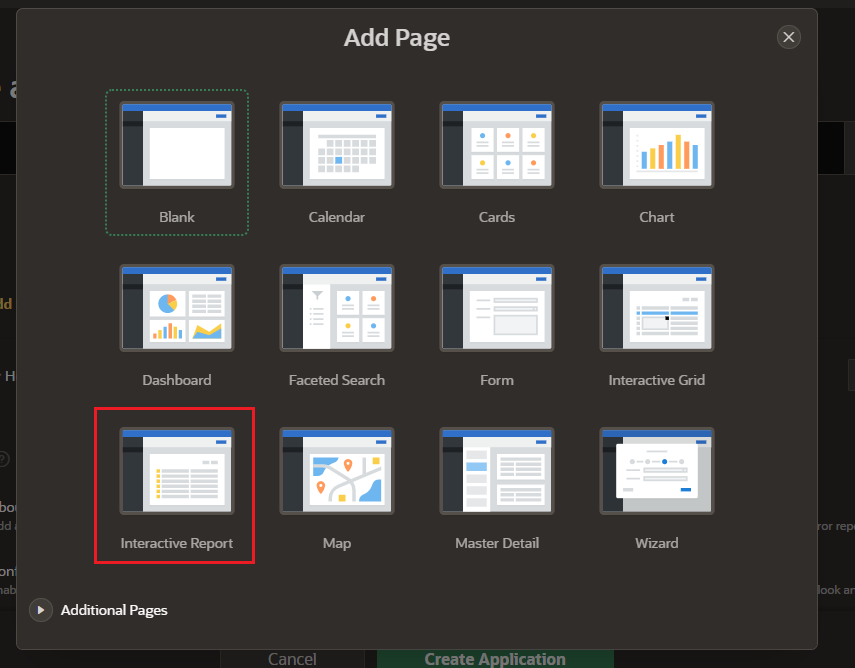
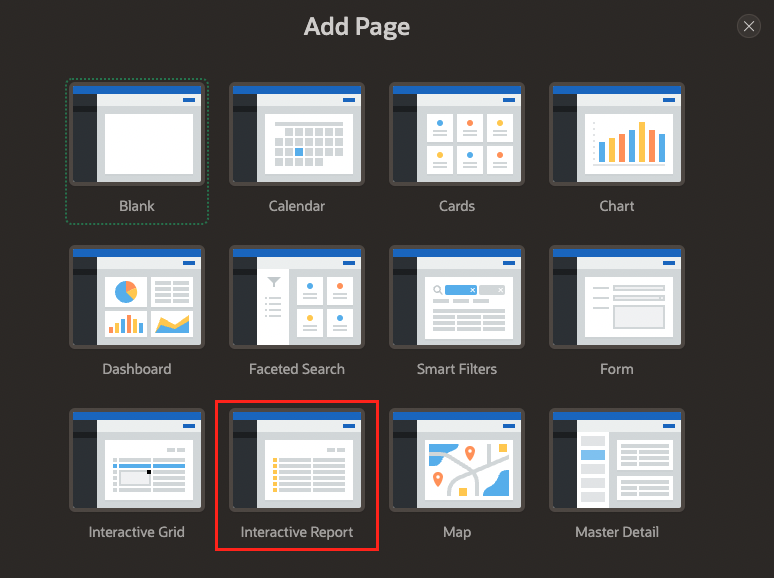
ID#2161 Add minor changes to mongoAPI AJD content (#22)
* Import MongoDB content mongoAPI capability

* Add changes after APEX new version

* Add minor changes in the mongoAPI content

diff --git a/ajd-soda/mongo-api/mongo-api.md b/ajd-soda/mongo-api/mongo-api.md
@@ -73,20 +73,20 @@ In this lab, you will:
 
     ![cat mongoapi-app](./images/task1/cat-mongoapi-app.png)
 
-3. **Verify** all connection **variables are correct**. This time we are using Oracle variables that we have used in previous labs and those will be use for connection variables that we will use. Following this method, you don't need to edit them.
+3. For the Oracle Autonomous JSON database connection: We are using **demo** user and the **password** that we have recommended during the workshop **DBlearnPTS#22_**. The name of the Oracle Databases is **demo** too. And the Oracle schema **SimpleCollection**. We will **run** the following export commands:
 
-
-    - For the Oracle Autonomous JSON database connection: We are using **demo** user and the **password** that we have recommended during the workshop **DBlearnPTS#22_**. The name of the Oracle Databases is **demo** too. And the Oracle schema **SimpleCollection**.
-
-    > Note: If you have change the following variables to a different value, please run this commands providing the variable that you have changed. **Remember, we are using the Oracle connections under the MongoDB variables for nor editing the parameters. If you prefer, you can eddit them.  Following this method, it is cleaner for the application point of view.**
-    >
     ````
+    <copy>
     export MONGO_USER="demo"
     export MONGO_PASSWORD="DBlearnPTS#22_"
     export MONGO_CLUSTER="Cluster0"
     export MONGO_DB="demo"
     export MONGO_COLLECTION="SimpleCollection"
+    </copy>
     ````
+
+    > Note: If you have change the following variables to a different value, please run this commands providing the variable that you have changed. **Remember, we are using the Oracle connections under the MongoDB variables for nor editing the parameters. If you prefer, you can eddit them.  Following this method, it is cleaner for the application point of view.**
+    >
 
     The only variable that we need to define, if you haven't changed any variable from the recomended, is **ATP_URL**. A new URL that our AJD has created after adding our IPs in Task 1 of this Lab.
 
@@ -119,13 +119,14 @@ In this lab, you will:
     mongodb://[user:password@]<ATP_URL_including_tenancy_id.oraclecloudapp.com>:27017[user]authMechanism=PLAIN&authSource=$external&ssl=true&retryWrites=false&loadBalanced=true
     ````
 
-    We need to copy the URL string after `@]` and until `:27017`. 
+    We need to copy the URL string after your _`[user:password@]`_ and until _`:27017`_, including _`oraclecloudapps.com`_. It should be something like: _`AAA8EFD9AA64AA4-AJDEV.adb.eu-frankfurt-1.oraclecloudapps.com`_
+
 
 7. We will **export** the URL using the following command:
 
     ````
     <copy>
-    export ATP_URL="[URL_AFTER_@_AND_]_UNTIL_SEMICOLON_27017]" 
+    export ATP_URL="URL_FROM_ABOVE" 
     </copy>
     ````
 
@@ -147,7 +148,7 @@ In this lab, you will:
 
      ![Microservice Company MongoAPI capability](./images/task1/microservice-mongoapi.png)
     
-    > This micro-service has 1 URL. We already had used previosly the Oracle one and the Mongo one. In this case we are using a new one / oracle/mongo. Here you have the others URLS too:
+    > This micro-service has 1 URL. We already had used previosly the Oracle one and the Mongo one. In this case we are using a new one /oracle/mongo. Here you have the others URLS too:
     >
         - http://[DEVM public-ip address]:5000/oracle/ -> for Oracle Autonomous Database
         - http://[DEVM public-ip address]:5000/mongo/ -> for MongoDB
@@ -223,9 +224,7 @@ In this lab, you will:
     ssh -i <private-key-file-name>.key opc@<Public_IP>
     </copy>
     ````
-
     ![ssh Connection](./images/task3/ssh.png)
-
 
 2. We will **export** the **paths** and **Access** to python-simple-project folder using the following commands:
 
@@ -243,34 +242,36 @@ In this lab, you will:
 
     > Note: We have run these commands before, if you are not desconnected from cloud shell, you don't have to run them again.
 
-2. Lets have a look at **insert-mongoapi-app.py**. In this file, we have the Python application code. Run the following command to see the code:
+3. Lets have a look at **insert-mongoapi-app.py**. In this file, we have the Python application code. Run the following command to see the code:
 
     ````
     <copy>
     cat insert-mongoapi-app.py
     </copy>
     ````
-
+    
     ![cat insert-mongoapi-app](./images/task3/cat-insert-mongoapi-app.png)
 
-3. **Verify** all connection **variables are correct**. This time we are using Oracle variables that we have used in previous labs and those will be use for connection variables that we will use. Following this method, you don't need to edit them.
+4. For the Oracle Autonomous JSON database connection: We are using **demo** user and the **password** that we have recommended during the workshop **DBlearnPTS#22_**. The name of the Oracle Databases is **demo** too. And the Oracle schema **SimpleCollection**. We will **run** the following export commands:
 
-    - For the Oracle Autonomous JSON database connection: We are using **demo** user and the **password** that we have recommended during the workshop **DBlearnPTS#22_**. The name of the Oracle Databases is **demo** too. And the new Oracle JSON Collection **MongoCollection**.
-
-    > Note: If you have change the following variables to a different value, please run this commands providing the variable that you have changed. **Remember, we are using the Oracle connections under the MongoDB variables for nor editing the parameters. If you prefer, you can eddit them.  Following this method, it is cleaner for the application point of view.**
-    >
     ````
+    <copy>
     export MONGO_USER="demo"
     export MONGO_PASSWORD="DBlearnPTS#22_"
     export MONGO_CLUSTER="Cluster0"
     export MONGO_DB="demo"
-    export MONGO_COLLECTION="MongoCollection"
-    export ATP_URL="[URL_AFTER_@_AND_]_UNTIL_SEMICOLON_27017]" 
+    export MONGO_COLLECTION="SimpleCollection"
+    export ATP_URL="URL_FROM_ABOVE" 
+    </copy>
     ````
+
+    > Note: If you have change the following variables to a different value, please run this commands providing the variable that you have changed. **Remember, we are using the Oracle connections under the MongoDB variables for nor editing the parameters. If you prefer, you can eddit them.  Following this method, it is cleaner for the application point of view.**
+    >
 
     > Note: Remember that we have exported **ATP_URL** on Task number 2 of this lab, so we don't need to export it again.
 
-4. **After checking if all variables are correct**. **Run** mongoapi-app application using the following command:
+
+5. **After checking if all variables are correct**. **Run** mongoapi-app application using the following command:
 
     ````
     <copy>
@@ -285,7 +286,7 @@ In this lab, you will:
 
     ![insert-mongoapi-app Execution](./images/task3/insert-mongoapi-app-execution.png)
 
-5. Lets see what **insert-mongoapi-app.py is doing**, use the following command:
+6. Lets see what **insert-mongoapi-app.py is doing**, use the following command:
 
     ````
     <copy>
@@ -299,7 +300,7 @@ In this lab, you will:
 
     **Your micro-service nsert-mongoapi-app.py is being executed** so we can start inserting the documents.
 
-6. **Copy** the following commands to perform **POST request with CURL client**. Make sure you press **Enter** after each one. First and Second POST:
+7. **Copy** the following commands to perform **POST request with CURL client**. Make sure you press **Enter** after each one. First and Second POST:
 
     ````
     <copy>
@@ -334,7 +335,7 @@ In this lab, you will:
 
     ![POST company nine and ten curl](./images/task3/curl-company-nine-ten.png)
 
-7. Use the **web browser** on your laptop to navigate to your micro-service to list JSON documents inserted into Oracle Autonomous Database using MongoAPI capability.
+8. Use the **web browser** on your laptop to navigate to your micro-service to list JSON documents inserted into Oracle Autonomous Database using MongoAPI capability.
 
     http://[DEVM public-ip address]:5000/oracle/mongo/
 
@@ -345,11 +346,11 @@ In this lab, you will:
         - http://[DEVM public-ip address]:5000/oracle/mongo/ -> for Oracle Autonomous Database using MongoAPI
 
 
-8. We can check that the **Two New Companies** (Nice and Ten) are being stored on our **Autonomous JSON Database**, on **MongoCollection** that we created in Task 3 of this Lab. Go to **Database Actions** again and click green **Play** button.
+9. We can check that the **Two New Companies** (Nice and Ten) are being stored on our **Autonomous JSON Database**, on **MongoCollection** that we created in Task 3 of this Lab. Go to **Database Actions** again and click green **Play** button.
 
     ![MongoDB Companies Added Database Actions](./images/task3/database-actions-nine-ten.png)
 
-9. Go to **cloud shell terminal.** We will **stop insert-mongoapi-app.py** running the following command. 
+10. Go to **cloud shell terminal.** We will **stop insert-mongoapi-app.py** running the following command. 
 
     ````
     <copy>

diff --git a/ajd-soda/multi-cloud-mongoapi/multi-cloud-mongoapi.md b/ajd-soda/multi-cloud-mongoapi/multi-cloud-mongoapi.md
@@ -92,13 +92,7 @@ One of the objectives of this workshop is to show the integration of Oracle Auto
     
     > Note: Save this string in your notes. Replace `[password]` (DBlearnPTS#22_), `[cluster_name]` (Cluster0), `[sub_domain_name]` and `[dbname]` (SimpleDatabase) with your values.
 
-7. Click the cluster name **Cluster0**. Under **Collections**, use **Load a Sample Dataset wizard** to generate some JSON documents for different use cases in your MongoDB database. **Navigate** these sample datasets and familiarize yourself with JSON documents, if this is your first experience.
-
-    ![MongoDB Collections](./images/task1/mongodb-collections.png)
-    ![MongoDB Load Sample](./images/task1/mongodb-load-sample.png)
-    ![MongoDB Load Sample Two](./images/task1/mongodb-load-sample-two.png)
-
-8. Click **Create Database**, and name it **SimpleDatabase**, and the collection **SimpleCollection**. This will be used for our Python application development in the next lab.
+7. Click the cluster name **Cluster0**. Under **Collections**, click **Create Database**, and name it **SimpleDatabase**, and the collection **SimpleCollection**. This will be used for our Python application development in the next lab.
 
     - Database Name: **SimpleDatabase**
     ```
@@ -112,7 +106,7 @@ One of the objectives of this workshop is to show the integration of Oracle Auto
     ![MongoDB Create Database](./images/task1/mongodb-create-database.png)
     ![MongoDB Simple DB](./images/task1/mongodb-simple-db.png)
 
-9. On the Collections left-side menu, select **SimpleDatabase** > **SimpleCollection**. This collection is now empty.
+8. On the Collections left-side menu, select **SimpleDatabase** > **SimpleCollection**. This collection is now empty.
 
     ![MongoDB SimpleDB Empty](./images/task1/mongodb-simple-db-empty.png)
 
@@ -289,7 +283,6 @@ One of the objectives of this workshop is to show the integration of Oracle Auto
 
     ![POST company Third and Fourth curl](./images/task2/curl-company-seven-eight.png)
 
-
 9. Use the **web browser** on your laptop to navigate to your micro-service to list JSON documents inserted into Oracle Autonomous Database.
 
     http://[DEVM public-ip address]:5000/mongo/
@@ -410,12 +403,29 @@ One of the objectives of this workshop is to show the integration of Oracle Auto
 
 ## Task 4: Final Results in Companies App built with APEX
 
-1. Execute **Companies Application**. 
+1. Use the **web browser** tab where Oracle Application Express (Apex) is opened, or open Apex from AJDEV using the browser on your laptop. If you need to **Sign In** again use the following credentials:
+
+     - Workspace Name: **demo**
+    ```
+    <copy>demo</copy>
+    ```
+    - Database User: **demows**
+    ```
+    <copy>demows</copy>
+    ```
+    - Password: **DBlearnPTS#22_**
+    ```
+    <copy>DBlearnPTS#22_</copy>
+    ```
+
+    ![Login DEMO](./images/task4/log-in-demo-new.png)
+
+2. Execute **Companies Application**. 
 
     ![Run App](./images/task4/run-app.png)
 
 
-2. **Log In** to Companies using the following credentials:
+3. **Log In** to Companies using the following credentials:
 
     - Username: **demows**
     ```
@@ -428,7 +438,7 @@ One of the objectives of this workshop is to show the integration of Oracle Auto
 
     ![Log In Companies](./images/task4/log-in-companies-new.png)
 
-3. Click **Report**. 
+4. Click **Report**. 
 
     ![Report App](./images/task4/report-app.png)
     

diff --git a/ajd-soda/infra-mongoapi/infra-mongoapi.md b/ajd-soda/infra-mongoapi/infra-mongoapi.md
@@ -352,7 +352,7 @@ On the Instance Details page, copy Public IP Address in your notes.
 
     ![ssh Connection](./images/task3/unzip-wallet.png)
 
-19. We will **export** the **paths** and give access to the **firewall** using the following commands:
+19. We will **export** the **paths** using the following commands:
 
     ````
     <copy>
@@ -360,8 +360,6 @@ On the Instance Details page, copy Public IP Address in your notes.
     export TNS_ADMIN=/home/opc/Wallet_AJDEV
     export LD_LIBRARY_PATH=/usr/lib/oracle/21/client64/lib
     export PATH=$PATH:/usr/lib/oracle/21/client64/bin/
-    sudo firewall-cmd --zone=public --add-port=5000/tcp --permanent
-    sudo firewall-cmd --reload
     </copy>
     ````
 

diff --git a/ajd-soda/intro-mongoapi/intro-mongoapi.md b/ajd-soda/intro-mongoapi/intro-mongoapi.md
@@ -29,7 +29,7 @@ In this lab, you will:
 
 ## Prerequisites
 
-* An Oracle Free Tier, Always Free, Paid or LiveLabs Cloud Account - You can check Getting Started section for more information.
+* [An Oracle Free Tier](https://bit.ly/free-tier-1207), Always Free, Paid or LiveLabs Cloud Account - You can check Getting Started section for more information.
 * MongoDB Cloud account (or Google account)
 * Deploy Atlas document store on MongoDB Cloud before the workshop
 

diff --git a/ajd-soda/simple-app-mongoapi/simple-app-mongoapi.md b/ajd-soda/simple-app-mongoapi/simple-app-mongoapi.md
@@ -316,6 +316,8 @@ Use SODA for Python on Oracle Autonomous JSON Database to develop a micro-servic
     -  **Interactive Report**
 
     ![Interactive Report](./images/task2/interactive-report.png)
+    
+    > Note: Be sure you select **Interactive Report** and not **Interactive Grid**, otherwise, you will face an error.
 
     - Page Name: **Report**
     ```
